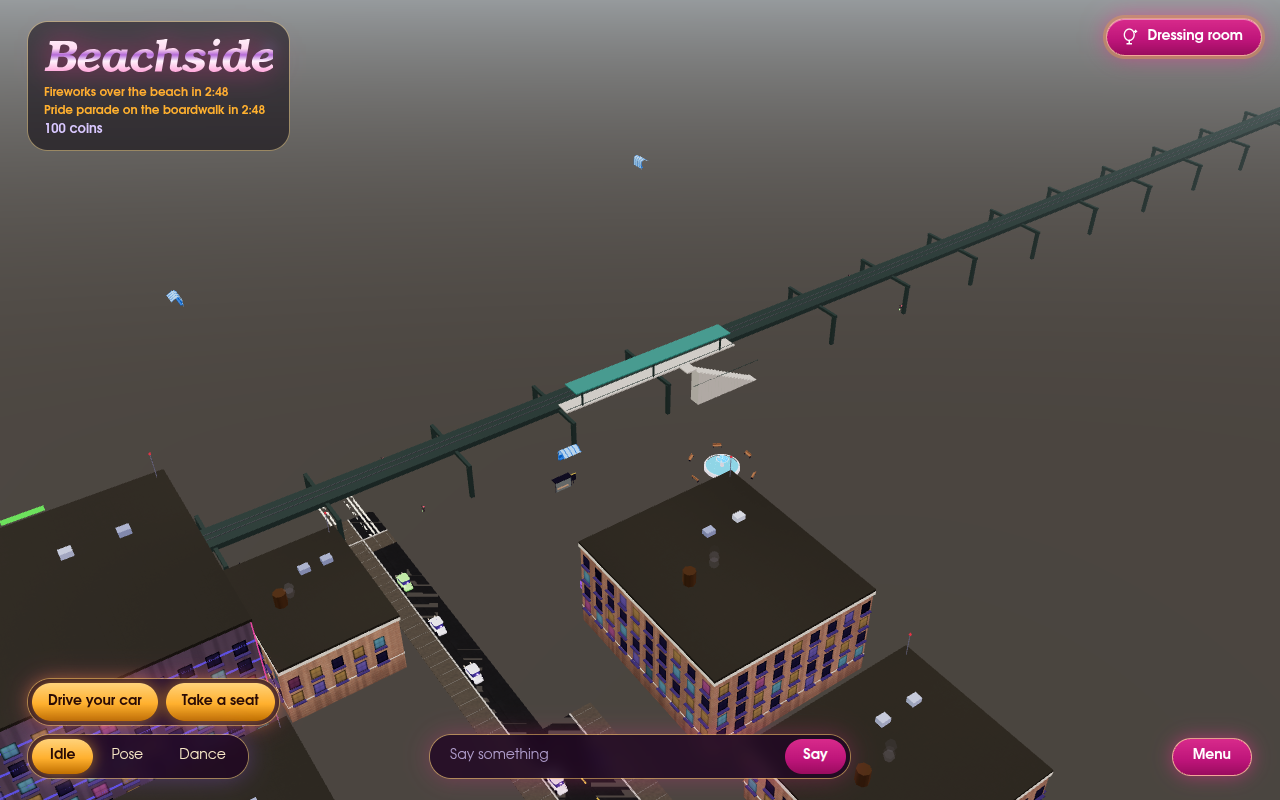
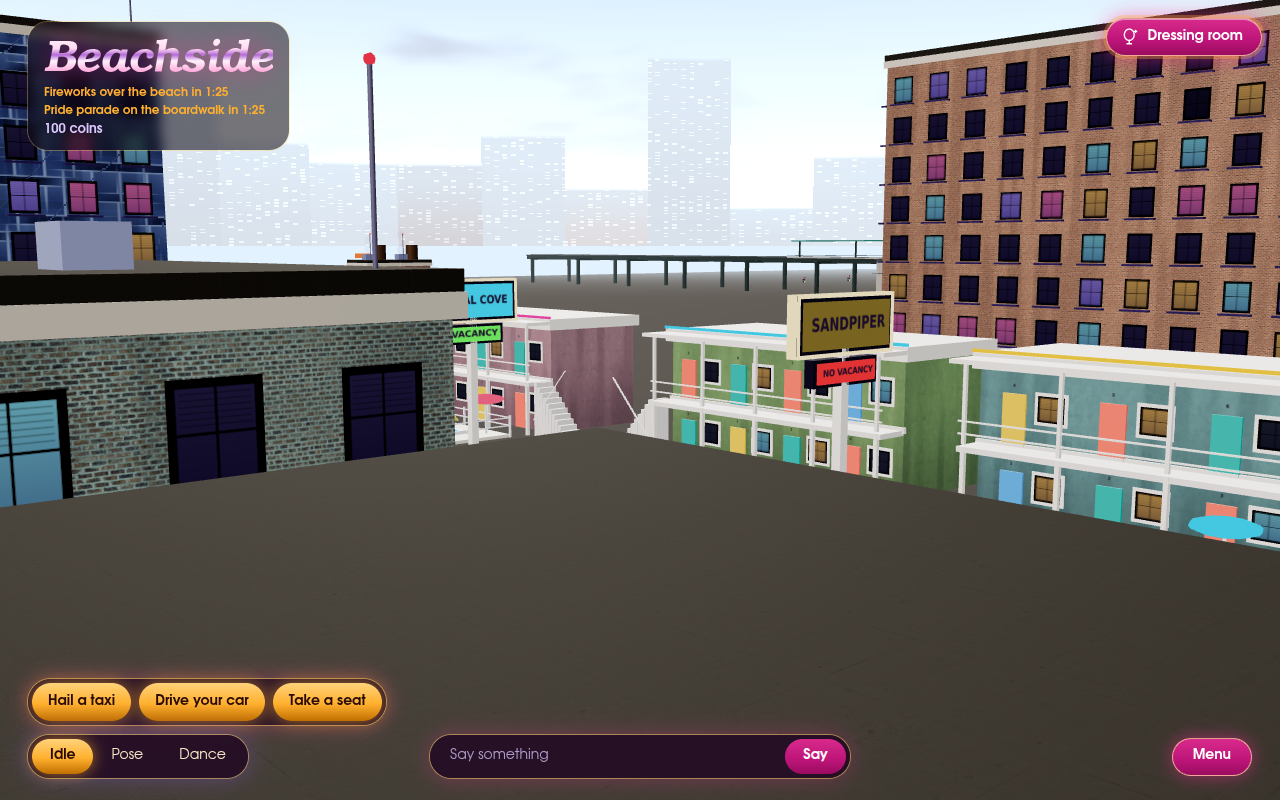
docs(motels): retaken close and wide motel shots; screenshots script waits longer for the first load

diff --git a/scripts/screenshots.ts b/scripts/screenshots.ts
@@ -826,7 +826,9 @@ for (const shot of SHOTS) {
   const started = Date.now();
   await page.setViewportSize(shot.viewport ?? { width: 1280, height: 800 });
   const still = shot.live ? "" : "&still=1";
-  await page.goto(`${BASE}/?quality=low${still}&${shot.query}`);
+  await page.goto(`${BASE}/?quality=low${still}&${shot.query}`, {
+    timeout: 300_000,
+  });
   if (shot.act) await shot.act(page);
   const canvas = page.getByRole("img", { name: "3D room view" });
   await expect(canvas).toHaveAttribute("data-frames", /\d+/, {
